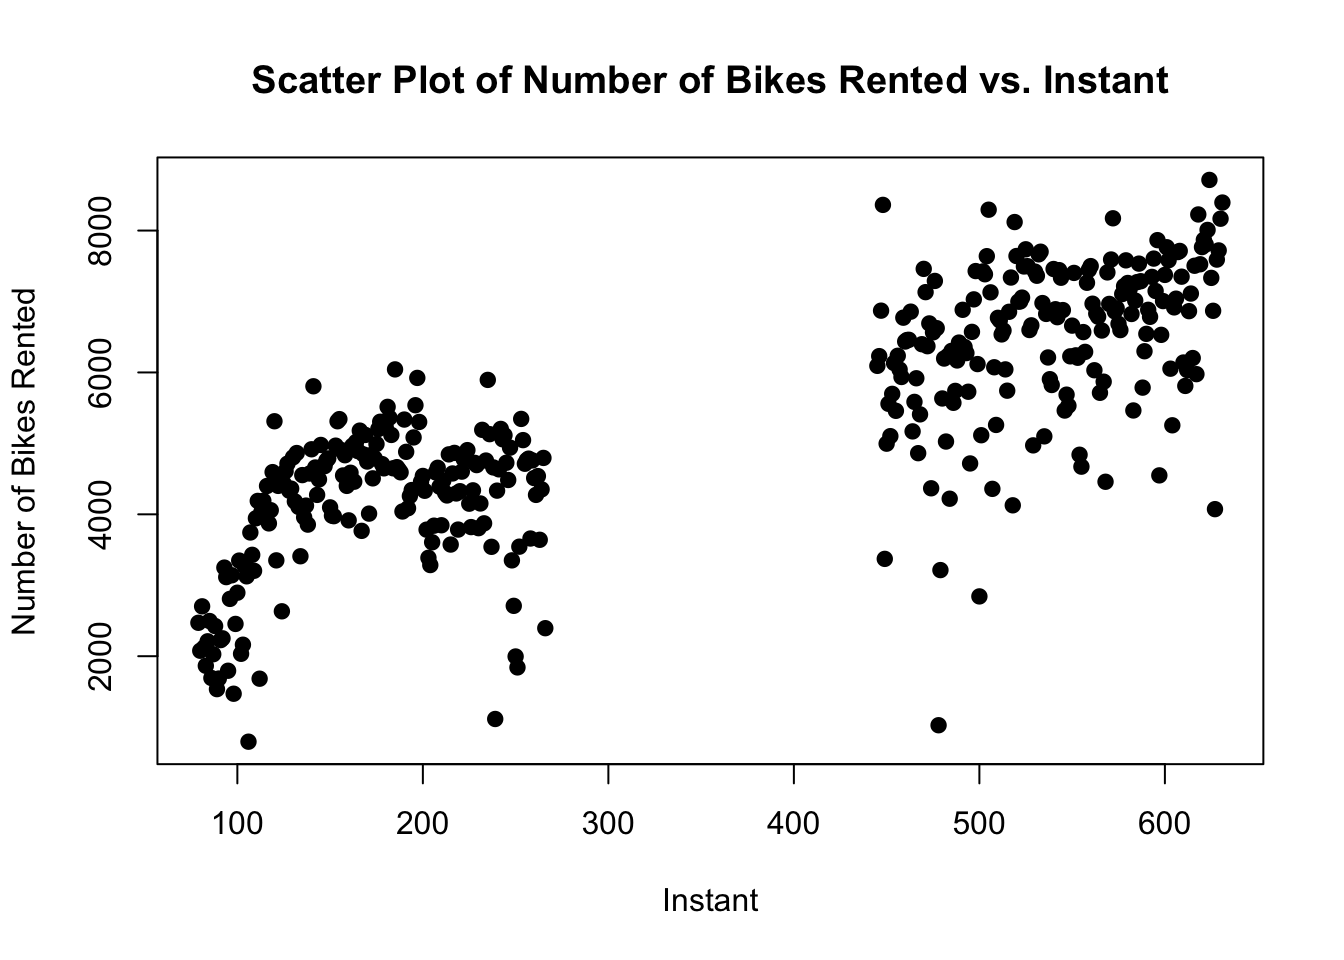
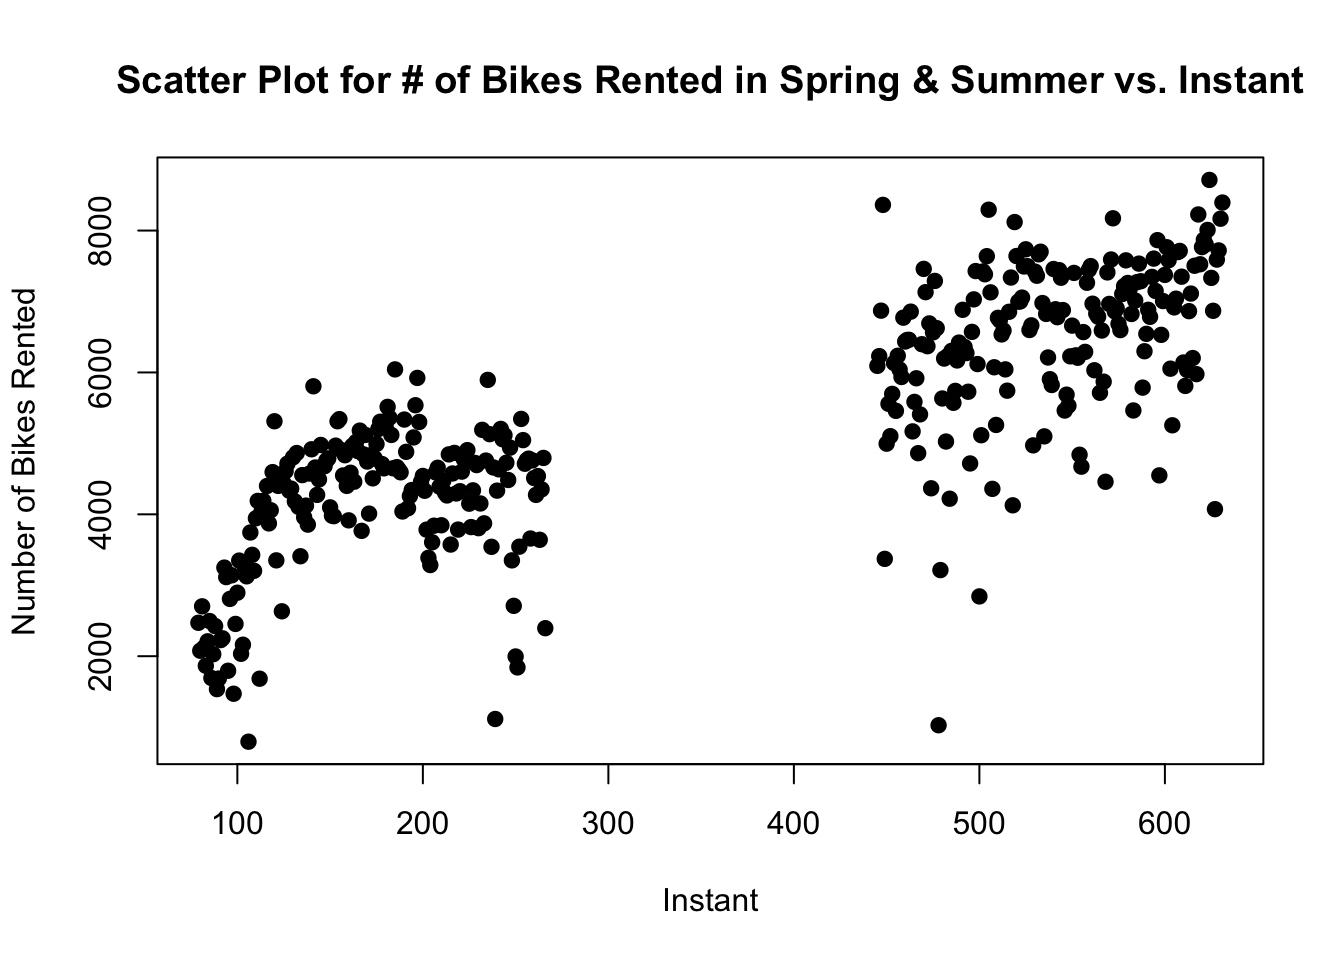
change title of plots

Changed region(s): [[0.0625, 0.0625, 0.9688, 0.125]]

diff --git a/BikeSharing/SharingBike.html b/BikeSharing/SharingBike.html
@@ -522,7 +522,7 @@ F-statistic: 70.73 on 1 and 729 DF,  p-value: &lt; 2.2e-16</code></pre>
 <span id="cb79-8"><a href="#cb79-8" aria-hidden="true" tabindex="-1"></a><span class="fu">plot</span>(combinedData<span class="sc">$</span>instant, combinedData<span class="sc">$</span>cnt,  <span class="co"># Adjust 'cnt' if it's in a different data structure</span></span>
 <span id="cb79-9"><a href="#cb79-9" aria-hidden="true" tabindex="-1"></a>     <span class="at">xlab =</span> <span class="st">"Instant"</span>,</span>
 <span id="cb79-10"><a href="#cb79-10" aria-hidden="true" tabindex="-1"></a>     <span class="at">ylab =</span> <span class="st">"Number of Bikes Rented"</span>,</span>
-<span id="cb79-11"><a href="#cb79-11" aria-hidden="true" tabindex="-1"></a>     <span class="at">main =</span> <span class="st">"Scatter Plot of Number of Bikes Rented vs. Instant"</span>,</span>
+<span id="cb79-11"><a href="#cb79-11" aria-hidden="true" tabindex="-1"></a>     <span class="at">main =</span> <span class="st">"Scatter Plot for # of Bikes Rented in Spring &amp; Summer vs. Instant"</span>,</span>
 <span id="cb79-12"><a href="#cb79-12" aria-hidden="true" tabindex="-1"></a>     <span class="at">pch =</span> <span class="dv">19</span>)  <span class="co"># pch = 19 makes the points solid circles for better visibility</span></span></code><button title="Copy to Clipboard" class="code-copy-button"><i class="bi"></i></button></pre></div>
 <div class="cell-output-display">
 <p><img src="SharingBike_files/figure-html/unnamed-chunk-12-2.png" class="img-fluid" width="672"></p>
@@ -807,7 +807,7 @@ Chisquare = 4.921905, Df = 1, p = 0.026518</code></pre>
 <div class="cell-output cell-output-stdout">
 <pre><code>function (x, y, ...) 
 UseMethod("plot")
-&lt;bytecode: 0x12f776f90&gt;
+&lt;bytecode: 0x10cef9590&gt;
 &lt;environment: namespace:base&gt;</code></pre>
 </div>
 <div class="sourceCode cell-code" id="cb120"><pre class="sourceCode r code-with-copy"><code class="sourceCode r"><span id="cb120-1"><a href="#cb120-1" aria-hidden="true" tabindex="-1"></a><span class="co">#sqrt both</span></span>
@@ -831,7 +831,7 @@ UseMethod("plot")
 <div class="cell-output cell-output-stdout">
 <pre><code>function (x, y, ...) 
 UseMethod("plot")
-&lt;bytecode: 0x12f776f90&gt;
+&lt;bytecode: 0x10cef9590&gt;
 &lt;environment: namespace:base&gt;</code></pre>
 </div>
 <div class="sourceCode cell-code" id="cb124"><pre class="sourceCode r code-with-copy"><code class="sourceCode r"><span id="cb124-1"><a href="#cb124-1" aria-hidden="true" tabindex="-1"></a><span class="co">#sqrt y</span></span>
@@ -855,7 +855,7 @@ UseMethod("plot")
 <div class="cell-output cell-output-stdout">
 <pre><code>function (x, y, ...) 
 UseMethod("plot")
-&lt;bytecode: 0x12f776f90&gt;
+&lt;bytecode: 0x10cef9590&gt;
 &lt;environment: namespace:base&gt;</code></pre>
 </div>
 </div>
@@ -890,7 +890,7 @@ UseMethod("plot")
 <div class="cell-output cell-output-stdout">
 <pre><code>function (x, y, ...) 
 UseMethod("plot")
-&lt;bytecode: 0x12f776f90&gt;
+&lt;bytecode: 0x10cef9590&gt;
 &lt;environment: namespace:base&gt;</code></pre>
 </div>
 <div class="sourceCode cell-code" id="cb133"><pre class="sourceCode r code-with-copy"><code class="sourceCode r"><span id="cb133-1"><a href="#cb133-1" aria-hidden="true" tabindex="-1"></a>tq2 <span class="ot">&lt;-</span> <span class="fu">qnorm</span>(<span class="fu">ppoints</span>(<span class="fu">length</span>(res2)))</span>
@@ -903,7 +903,7 @@ UseMethod("plot")
 <div class="cell-output cell-output-stdout">
 <pre><code>function (x, y, ...) 
 UseMethod("plot")
-&lt;bytecode: 0x12f776f90&gt;
+&lt;bytecode: 0x10cef9590&gt;
 &lt;environment: namespace:base&gt;</code></pre>
 </div>
 </div>
